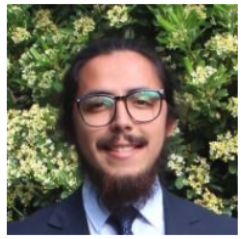
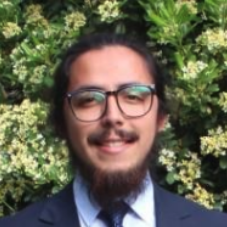
feat: add issue component and update style details
* Add a notification window when the Scorpio API is down\n* Add icons for the notification window\n* Update the documentation and about-us section with new images

diff --git a/src/pages/Documentation/Documentation.jsx b/src/pages/Documentation/Documentation.jsx
@@ -54,6 +54,7 @@ export default function Documentation() {
   const t = labels[language];
   const [query, setQuery] = useState("");
   const [active, setActive] = useState("page-0");
+  const [expandedPages, setExpandedPages] = useState(() => new Set());
   const blocks = content[language].articles_content;
   const pages = useMemo(() => {
     const groups = [];
@@ -189,6 +190,7 @@ export default function Documentation() {
         </div>
       </header>
       <div className="docs-layout">
+        {/* Sidebar */}
         <aside className="docs-sidebar">
           <label className="docs-search">
             <span>{t.search}</span>
@@ -208,27 +210,40 @@ export default function Documentation() {
               <div className="docs-nav-group" key={page.number}>
                 <a
                   className="docs-page-link"
+                  aria-expanded={expandedPages.has(page.number)}
                   aria-current={
                     active === `page-${page.number}` ? "location" : undefined
                   }
                   href={`#page-${page.number}`}
+                  onClick={() => {
+                    setExpandedPages((current) => {
+                      const next = new Set(current);
+                      if (next.has(page.number)) {
+                        next.delete(page.number);
+                      } else {
+                        next.add(page.number);
+                      }
+                      return next;
+                    });
+                  }}
                 >
                   {page.blocks.find((block) => block.type === "h1")?.content}
                 </a>
-                {page.blocks
-                  .filter((block) => block.type === "h2" || block.type === "h3")
-                  .map((block) => (
-                    <a
-                      className={`docs-section-link docs-section-link--${block.type}`}
-                      aria-current={
-                        active === block.id ? "location" : undefined
-                      }
-                      key={block.id}
-                      href={`#${block.id}`}
-                    >
-                      {block.content}
-                    </a>
-                  ))}
+                {expandedPages.has(page.number) &&
+                  page.blocks
+                    .filter((block) => block.type === "h2" || block.type === "h3")
+                    .map((block) => (
+                      <a
+                        className={`docs-section-link docs-section-link--${block.type}`}
+                        aria-current={
+                          active === block.id ? "location" : undefined
+                        }
+                        key={block.id}
+                        href={`#${block.id}`}
+                      >
+                        {block.content}
+                      </a>
+                    ))}
               </div>
             ))}
           </nav>
@@ -241,6 +256,7 @@ export default function Documentation() {
             {t.source} ↗
           </a>
         </aside>
+        {/* Main document */}
         <main className="docs-article" id="docs-content" tabIndex={-1}>
           <div className="docs-meta">
             {/* Last date edited */}

diff --git a/src/pages/LandingPage/LandingPage.jsx b/src/pages/LandingPage/LandingPage.jsx
@@ -13,6 +13,7 @@ import { useSatellites } from '../../hooks/useSatellites'
 import { useStationMonthlyPackets } from '../../hooks/useStationMonthlyPackets'
 import { useStationPackets } from '../../hooks/useStationPackets'
 import { useStations } from '../../hooks/useStations'
+import Issue from '../../components/Issue/Issue';
 import './LandingPage.css'
 
 export default function LandingPage() {
@@ -139,6 +140,11 @@ export default function LandingPage() {
     setSelectedPacket(null)
   }
 
+  const backendError = error || satelliteError || satelliteSearchError || statsError;
+  if (backendError) {
+    return <Issue />;
+  }
+  
   return (
     <main className="landing-page">
       <Navbar

diff --git a/src/components/Issue/Issue.css b/src/components/Issue/Issue.css
@@ -1,0 +1,33 @@
+.issue {
+    position: absolute;
+    top: 0;
+    left: 0;
+    width: 100%;
+    height: 100%;
+    background: var(--docs-surface);
+    align-items: center;
+    justify-content: center;
+    display: flex;
+    flex-direction: column;
+}
+
+.issue img {
+    width: 15rem;
+    height: 15rem;
+    object-fit: contain;
+}
+.issue h2 {
+    color:  #c084fc;
+}
+
+.issue section p {
+    font-size: 1.125rem;
+    color: var(--docs-muted);
+    margin: 0.5rem 0;
+}
+.issue section a {
+    color: #dcc0f8;
+    font-size: .8rem;
+    text-decoration: none;
+    
+}

diff --git a/src/components/Issue/Issue.jsx b/src/components/Issue/Issue.jsx
@@ -1,0 +1,16 @@
+import './Issue.css';
+
+export default function Issue() {
+    return (
+        <div className="issue">
+            <img src="/images/uups/uups.png" alt="Error" />
+            <h2>Oops! An internal server error occurred.</h2>
+            <section>
+            <p>We are working to resolve the issue as quickly as possible.</p>
+            <p>If the problem persists, please contact our support team.</p>
+            {/* mail to */}
+            <a>scorpioiotuc [at] gmail [dot] com</a>
+            </section>
+        </div>
+    )
+}

diff --git a/src/pages/AboutUs/AboutUs.css b/src/pages/AboutUs/AboutUs.css
@@ -134,8 +134,8 @@
 }
 
 .about-institution img {
-  width: 42px;
-  height: 52px;
+  width: 6rem;
+  height: 5rem;
   object-fit: contain;
 }
 
@@ -225,8 +225,8 @@
 }
 
 .about-affiliation img {
-  width: 36px;
-  height: 44px;
+  width: 86px;
+  height: 54px;
   object-fit: contain;
 }
 
@@ -246,6 +246,9 @@
   width: 112px;
   height: 112px;
   margin: 8px 0 20px;
+  border-radius: 50%;
+  border: 1px solid var(--docs-border);
+  box-shadow: 0 0 0px 6px var(--docs-border);
 }
 
 .about-portrait img {

diff --git a/src/pages/AboutUs/AboutUs.jsx b/src/pages/AboutUs/AboutUs.jsx
@@ -175,7 +175,7 @@ export default function AboutUs() {
                   {institution.logo ? (
                     <img src={institution.logo} alt="" />
                   ) : (
-                    <span className="about-inria-wordmark">Inria</span>
+                    <span></span>
                   )}
                   <span>
                     <strong>{institution.short_name}</strong>

diff --git a/src/pages/Documentation/Documentation.css b/src/pages/Documentation/Documentation.css
@@ -182,6 +182,15 @@
   font-weight: 650;
   font-size: 13px;
 }
+.docs-sidebar .docs-page-link::after {
+  content: "＋";
+  float: right;
+  color: var(--docs-muted);
+  font-weight: 400;
+}
+.docs-sidebar .docs-page-link[aria-expanded="true"]::after {
+  content: "−";
+}
 .docs-sidebar .docs-section-link {
   color: var(--docs-muted);
   padding-left: 16px;
